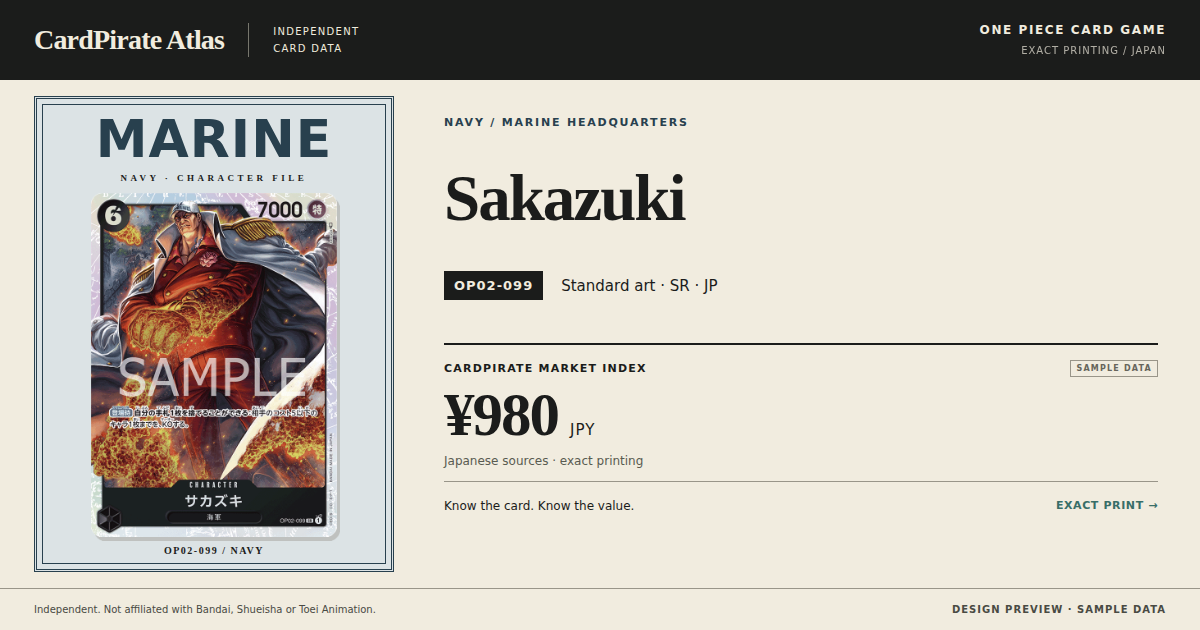
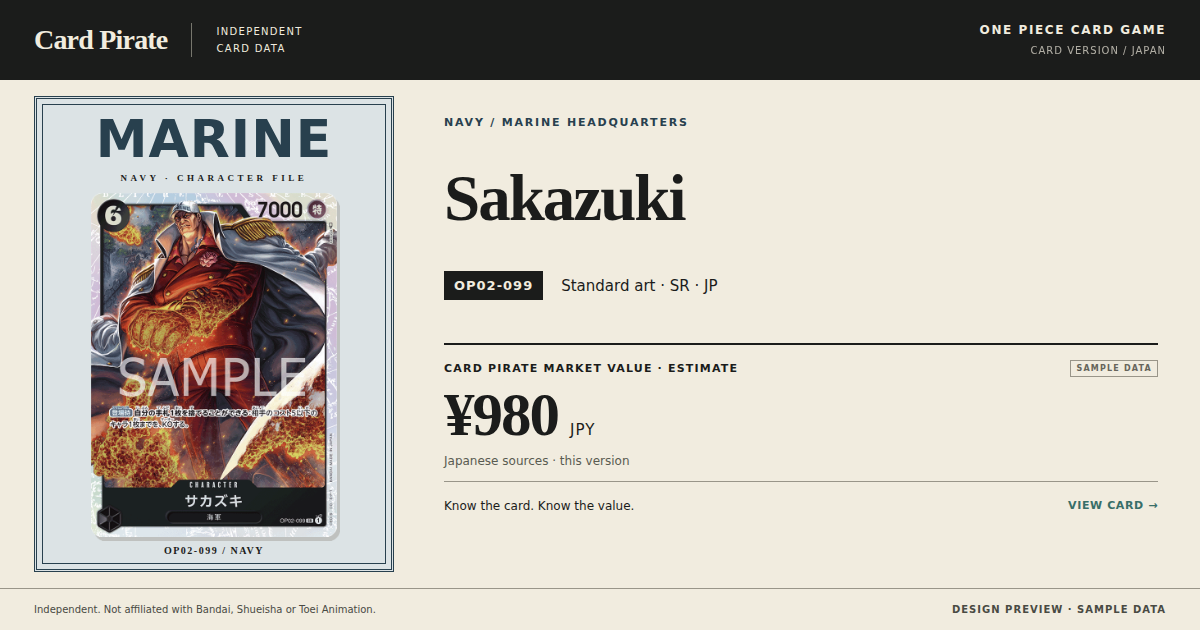
docs: refine One Piece proofs for collector and market context

diff --git a/docs/reports/collector-public-context-2026-10-01.md b/docs/reports/collector-public-context-2026-10-01.md
@@ -191,32 +191,64 @@ Social examples: [Home](../ui/evidence/2026-10-01-collector-refinement/social-ho
 
 ## One Piece social-card design proofs (2026-10-01)
 
-These six completed 1200 × 630 design proofs are added for product review only.
-They use canonical One Piece card artwork, Wanted-poster framing, and manga-panel
-treatments, with CardPirate identified separately as the independent data publisher.
-Exact-card prices are visibly labeled illustrative sample data, not live prices.
+Revised for product review: these six 1200 × 630 proofs supersede the first
+One Piece design-proof images committed at `50ae56e`. They are design artifacts,
+not screenshots of deployed social-image routes. Application behavior and public
+metadata remain unchanged.
 
-| Surface | Review proof | Visual treatment |
+| Surface | Revised proof | Copy and visual treatment |
 | --- | --- | --- |
-| Homepage | [Homepage](../ui/evidence/2026-10-01-one-piece-social-cards/homepage.png) | Gear 5 Luffy leads the Straw Hat crew artwork composition. |
-| Exact card | [Luffy exact card](../ui/evidence/2026-10-01-one-piece-social-cards/exact-card.png) | Full OP05-119 alternate artwork in a Wanted frame; sample JPY index outside the poster. |
-| Market | [Market](../ui/evidence/2026-10-01-one-piece-social-cards/market.png) | Manga panels with representative Luffy, Zoro and Sakazuki artwork. |
-| Set/release | [Romance Dawn](../ui/evidence/2026-10-01-one-piece-social-cards/release.png) | OP-01 release identity with Luffy, Zoro and Nami cards from that release. |
-| Zoro variant | [Zoro exact card](../ui/evidence/2026-10-01-one-piece-social-cards/exact-zoro.png) | Straw Hat Wanted frame and green ink; swords remain part of the actual artwork. |
-| Marine variant | [Sakazuki exact card](../ui/evidence/2026-10-01-one-piece-social-cards/exact-marine.png) | Blue Marine character-file framing with Sakazuki's canonical Navy artwork. |
+| Homepage | [Homepage](../ui/evidence/2026-10-01-one-piece-social-cards/homepage.png) | “Know what your cards are worth.” / “Prices for the cards you own, want and watch.” Gear 5 Luffy and Straw Hat artwork remain dominant. |
+| Exact Luffy | [Luffy](../ui/evidence/2026-10-01-one-piece-social-cards/exact-card.png) | Full OP05-119 alternate artwork in a Straw Hat Wanted frame, with the sample Market Value estimate outside the poster. |
+| Exact Zoro | [Zoro](../ui/evidence/2026-10-01-one-piece-social-cards/exact-zoro.png) | Green Straw Hat Wanted frame; his swords remain part of the canonical artwork. |
+| Exact Marine | [Sakazuki](../ui/evidence/2026-10-01-one-piece-social-cards/exact-marine.png) | Blue Marine-file frame and Sakazuki's actual Navy artwork; no pirate Wanted treatment. |
+| Market | [One Piece Market](../ui/evidence/2026-10-01-one-piece-social-cards/market.png) | Market Value, available 7-day movement, dated sample context and partial coverage replace editorial copy. |
+| Release/set | [OP-01 — Romance Dawn](../ui/evidence/2026-10-01-one-piece-social-cards/release.png) | Sets on the Move: OP-01 identity, 7-day movement, tracked value, coverage and representative OP-01 artwork. |
 
-The proofs preserve the full primary card artwork and its source markings.
-They introduce no generic nautical symbols, invented crew insignia, or imitation
-of the official One Piece logo. These are visual proposals, not approval of new
-product copy or price terminology and not screenshots of the current application.
+### Collector language and brand
 
-This tranche copies the six existing PNGs byte-for-byte and adds their review
-links to this report. Application behavior, metadata, production social-image
-rendering, data semantics and deployment configuration remain unchanged. No
-renderer source, contact sheet, validation JSON, or other design assets are added.
+All six proofs use **Card Pirate**, without Atlas. Visible print/printing wording
+has been removed: **Card version / Japan**, **Japanese sources · this version**,
+**View card →**, and **See every version →** are used instead. Internal CardPrint
+names, identifiers, schemas and data contracts are unchanged. Exact-card prices
+are labeled **Card Pirate Market Value · Estimate** and **Sample data**.
 
-Validation for this documentation-only commit: all six PNGs decode at 1200 × 630,
-match the completed local proof bytes, and resolve from the links above; the
-commit contains only these six images and this report. Application tests/build
-are not rerun because no application files change. The existing branch deployment
-suppression remains intact. PR #33 must remain open and unmerged for product review.
+### Market context and truth boundary
+
+The Market and release proofs use the existing local
+[`marketValue.json` fixture](../../apps/web/src/lib/__fixtures__/marketValue.json)
+(`overall` and `eligible`), not live production values:
+
+| Proof | Sample tracked value | Available sample 7D movement | Coverage |
+| --- | --- | --- | --- |
+| Market | ¥262,279 | −3.94% | 639 of 4,316 card versions priced; partial coverage |
+| OP-01 | ¥48,300 | +4.20% | 81 of 154 card versions priced; partial coverage |
+
+The source snapshot is dated **2026-09-26**, displayed alongside **Sample data**.
+The proofs do not present this dated fixture as today's current market value.
+Movement is displayed only when the fixture marks it available and publishable
+with a finite percentage. Unavailable 30-day movement is omitted, without a
+placeholder, zero, extrapolated return or invented editorial substitute. Movement
+comes directly from the supplied comparable-card series; it is not recomputed
+from the sum of tracked values. Coverage is expressed as card versions rather
+than implying a count of unique characters/cards. No release-count claim is
+inferred from a partial fixture list.
+
+All exact-card prices are also illustrative and visibly labeled. Canonical
+artwork, source markings, non-affiliation copy and independent publisher identity
+are preserved. No new generic nautical decoration or invented insignia is added.
+
+### Validation and scope
+
+All six revised PNGs render at 1200 × 630, with loaded, proportionate artwork and
+no browser exceptions. Browser checks verify the requested homepage text, exact
+Card Pirate mastheads, absence of visible print/printing/Atlas terminology,
+sample-value labels, dated partial coverage, omitted 30D movement and content
+clear of footers/frame edges. Each report link resolves to its corresponding PNG.
+
+This refinement changes only the six proof PNGs and this report. No renderer
+source, contact sheet, validation JSON or raw artwork is committed. Application
+behavior, metadata, production social-image rendering, internal CardPrint
+terminology and deployment configuration remain unchanged. Application builds
+and tests are not rerun for this documentation-only update. Branch deployment
+suppression remains intact; **PR #33 stays open and unmerged for product review**.
